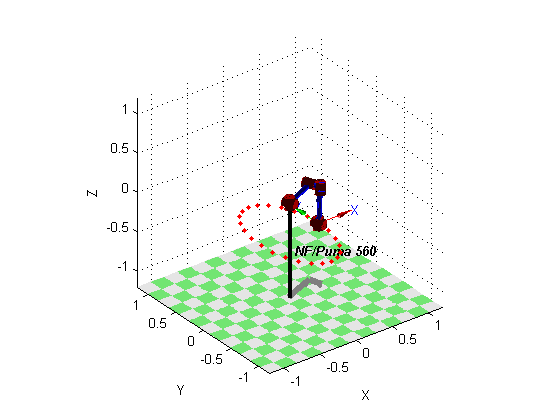
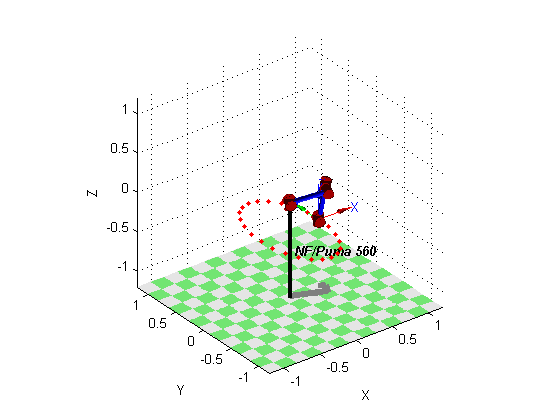
FEita a questão 2.2, bastou procurar os valores corretos.

diff --git a/html/projeto2.html b/html/projeto2.html
@@ -65,75 +65,105 @@ table td { padding:7px 5px; text-align:left; vertical-align:top; border:1px soli
 
 
 
-  </style></head><body><div class="content"><h2>Contents</h2><div><ul><li><a href="#3">Resulting robot movement</a></li></ul></div><pre class="codeinput"><span class="keyword">function</span> projeto2(p560)
+  </style></head><body><div class="content"><h2>Contents</h2><div><ul><li><a href="#3">2.2.a Desenho de elipse no ch&atilde;o do espa&ccedil;o de trabalho com o rob&ocirc; puma560</a></li><li><a href="#5">2.1.b Desenho de elipse na parede do espa&ccedil;o de trabalho com o rob&ocirc; puma560</a></li></ul></div><pre class="codeinput"><span class="keyword">function</span> projeto2(p560)
 </pre><pre class="codeinput">close <span class="string">all</span>;
 robot = p560.nofriction();
-
-n = 25;
+</pre><h2>2.2.a Desenho de elipse no ch&atilde;o do espa&ccedil;o de trabalho com o rob&ocirc; puma560<a name="3"></a></h2><pre class="codeinput">n = 25;
 r1 = 0.4;
 r2 = 0.75;
-z = -0.4;
+z = -0.35;
 angle = linspace(0, 2*pi, n)';
 points = [r1*cos(angle), r2*sin(angle), z*ones(n, 1)];
 T = transl(points);
 q = robot.ikine(T);
 
-figure;
-set(gcf, <span class="string">'Renderer'</span>, <span class="string">'zbuffer'</span>);
-robot.plot(q(1,:));
-hold(<span class="string">'on'</span>);
-frame = getframe(gcf);
-[im, map] = rgb2ind(frame.cdata, 256, <span class="string">'nodither'</span>);
-<span class="keyword">for</span> k = 1:size(q,1)
-	robot.plot(q(k, :));
- 	plot2(points(k, :), <span class="string">'r.'</span>);
-	frame = getframe(gcf);
-	im(:,:,1,k) = rgb2ind(frame.cdata, map, <span class="string">'nodither'</span>);
-<span class="keyword">end</span>
-imwrite(im, map, <span class="string">'html\gui.gif'</span>, <span class="string">'DelayTime'</span>, 0, <span class="string">'LoopCount'</span>, inf);
+<span class="comment">% figure;</span>
+<span class="comment">% set(gcf, 'Renderer', 'zbuffer');</span>
+<span class="comment">% robot.plot(q(1,:));</span>
+<span class="comment">% hold('on');</span>
+<span class="comment">% frame = getframe(gcf);</span>
+<span class="comment">%[im, map] = rgb2ind(frame.cdata, 256, 'nodither');</span>
+
+	<span class="keyword">function</span> plotFrame(n)
+		robot.plot(q(n, :));
+		hold(<span class="string">'on'</span>);
+		plot2(points(n, :), <span class="string">'r.'</span>);
+	<span class="keyword">end</span>
+
+plot2gif(size(q, 1), @plotFrame, <span class="string">'html\2.1.gif'</span>);
 </pre><pre class="codeoutput">Warning: Initial joint configuration results in a (near-)singular
 configuration, this may slow convergence 
 Warning: solution diverging at step 3, try reducing alpha 
-Warning: ikine: iteration limit 1000 exceeded (row 6), final err 0.000018 
-Warning: ikine: iteration limit 1000 exceeded (row 7), final err 0.000018 
-</pre><img vspace="5" hspace="5" src="projeto2_01.png" alt=""> <h2>Resulting robot movement<a name="3"></a></h2><p>
-<img src="gui.gif" alt="Elipse no chão para o robô Puma560." align = "middle" >
+Warning: ikine: iteration limit 1000 exceeded (row 8), final err 0.000017 
+Warning: solution diverging at step 48, try reducing alpha 
+</pre><img vspace="5" hspace="5" src="projeto2_01.png" alt=""> <p>
+<p align="center"><img src="2.1.gif" alt="Elipse no chão para o robô Puma560."></p>
+</p><h2>2.1.b Desenho de elipse na parede do espa&ccedil;o de trabalho com o rob&ocirc; puma560<a name="5"></a></h2><pre class="codeinput">n = 25;
+r1 = 0.2;
+r2 = 0.4;
+x = 0.6;
+angle = linspace(0, 2*pi, n)';
+points = [x*ones(n, 1), r2*sin(angle), r1*cos(angle)];
+T = transl(points);
+q = robot.ikine(T);
+
+plot2gif(size(q, 1), @plotFrame, <span class="string">'html\2.2.gif'</span>);
+</pre><pre class="codeoutput">Warning: Initial joint configuration results in a (near-)singular
+configuration, this may slow convergence 
+</pre><img vspace="5" hspace="5" src="projeto2_02.png" alt=""> <img vspace="5" hspace="5" src="projeto2_03.png" alt=""> <p>
+<p align="center"><img src="2.2.gif" alt="Elipse na parede para o robô Puma560."></p>
 </p><pre class="codeinput"><span class="keyword">end</span>
 </pre><p class="footer"><br><a href="http://www.mathworks.com/products/matlab/">Published with MATLAB&reg; R2012b</a><br></p></div><!--
 ##### SOURCE BEGIN #####
 function projeto2(p560)
-
 close all;
 robot = p560.nofriction();
+
+%% 2.2.a Desenho de elipse no chão do espaço de trabalho com o robô puma560
 
 n = 25;
 r1 = 0.4;
 r2 = 0.75;
-z = -0.4;
+z = -0.35;
 angle = linspace(0, 2*pi, n)';
 points = [r1*cos(angle), r2*sin(angle), z*ones(n, 1)];
 T = transl(points);
 q = robot.ikine(T);
 
-figure;
-set(gcf, 'Renderer', 'zbuffer');
-robot.plot(q(1,:));
-hold('on');
-frame = getframe(gcf);
-[im, map] = rgb2ind(frame.cdata, 256, 'nodither');
-for k = 1:size(q,1)
-	robot.plot(q(k, :));
- 	plot2(points(k, :), 'r.');
-	frame = getframe(gcf);
-	im(:,:,1,k) = rgb2ind(frame.cdata, map, 'nodither');
-end
-imwrite(im, map, 'html\gui.gif', 'DelayTime', 0, 'LoopCount', inf);
+% figure;
+% set(gcf, 'Renderer', 'zbuffer');
+% robot.plot(q(1,:));
+% hold('on');
+% frame = getframe(gcf);
+%[im, map] = rgb2ind(frame.cdata, 256, 'nodither');
 
+	function plotFrame(n)
+		robot.plot(q(n, :));
+		hold('on');
+		plot2(points(n, :), 'r.');
+	end
 
-
-%% Resulting robot movement
+plot2gif(size(q, 1), @plotFrame, 'html\2.1.gif');
+%%
 % <html>
-% <img src="gui.gif" alt="Elipse no chão para o robô Puma560." align = "middle" > 
+% <p align="center"><img src="2.1.gif" alt="Elipse no chão para o robô Puma560."></p> 
+% </html>
+%
+
+%% 2.1.b Desenho de elipse na parede do espaço de trabalho com o robô puma560
+n = 25;
+r1 = 0.2;
+r2 = 0.4;
+x = 0.6;
+angle = linspace(0, 2*pi, n)';
+points = [x*ones(n, 1), r2*sin(angle), r1*cos(angle)];
+T = transl(points);
+q = robot.ikine(T);
+
+plot2gif(size(q, 1), @plotFrame, 'html\2.2.gif');
+%%
+% <html>
+% <p align="center"><img src="2.2.gif" alt="Elipse na parede para o robô Puma560."></p> 
 % </html>
 %
 
